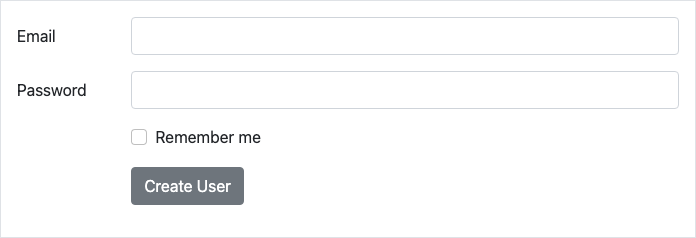
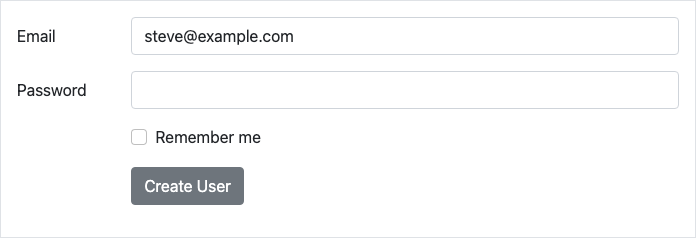
Added email to the standard user + help text in example 2

Changed region(s): [[0.2112, 0.1176, 0.4224, 0.1765]]

diff --git a/demo/app/controllers/bootstrap_controller.rb b/demo/app/controllers/bootstrap_controller.rb
@@ -20,9 +20,9 @@ class BootstrapController < ApplicationController
       Address.new(id: 2, street: "Bar")
     ]
 
-    @user = User.new
+    @user = User.new email: 'steve@example.com'
 
-    @user_with_error = User.new
+    @user_with_error = User.new email: 'steve.example.com'
     @user_with_error.errors.add(:email)
     @user_with_error.errors.add(:misc)
   end

diff --git a/README.md b/README.md
@@ -86,7 +86,7 @@ This generates the following HTML:
 <form accept-charset="UTF-8" action="/users" class="new_user" id="new_user" method="post">
   <div class="mb-3">
     <label class="form-label required" for="user_email">Email</label>
-    <input class="form-control" id="user_email" name="user[email]" type="email">
+    <input class="form-control" id="user_email" name="user[email]" type="email" value="steve@example.com">
   </div>
   <div class="mb-3">
     <label class="form-label" for="user_password">Password</label>
@@ -135,7 +135,7 @@ To get started, just use the `bootstrap_form_with` helper in place of `form_with
 ```erb
 <%= bootstrap_form_with(model: @user, local: true) do |f| %>
   <%= f.email_field :email %>
-  <%= f.password_field :password %>
+  <%= f.password_field :password, help: 'A good password should be at least six characters long' %>
   <%= f.check_box :remember_me %>
   <%= f.submit "Log In" %>
 <% end %>
@@ -286,7 +286,7 @@ This generates:
 <div class="mb-3 row">
   <label class="form-label custom-class col-form-label col-sm-2 required" for="user_email">Email</label>
   <div class="col-sm-10">
-    <input class="form-control" id="user_email" name="user[email]" type="text">
+    <input class="form-control" id="user_email" name="user[email]" type="text" value="steve@example.com">
   </div>
 </div>
 ```
@@ -304,7 +304,7 @@ This generates:
 <div class="mb-3 row">
   <label class="form-label visually-hidden col-form-label col-sm-2 required" for="user_email">Email</label>
   <div class="col-sm-10">
-    <input class="form-control" id="user_email" name="user[email]" placeholder="Email" type="text">
+    <input class="form-control" id="user_email" name="user[email]" placeholder="Email" type="text" value="steve@example.com">
   </div>
 </div>
 ```
@@ -324,7 +324,7 @@ This generates:
 <div class="mb-3 row">
   <label class="form-label col-form-label col-sm-2 required" for="user_email">Email</label>
   <div class="col-sm-10">
-    <input class="custom-class" id="user_email" name="user[email]" type="text">
+    <input class="custom-class" id="user_email" name="user[email]" type="text" value="steve@example.com">
   </div>
 </div>
 ```
@@ -460,7 +460,7 @@ This generates:
   <label class="form-label col-form-label col-sm-2 required" for="user_email">Email</label>
   <div class="col-sm-10">
     <div class="input-group input-group-lg">
-      <input class="form-control" id="user_email" name="user[email]" type="email">
+      <input class="form-control" id="user_email" name="user[email]" type="email" value="steve@example.com">
       <input class="btn btn-primary" data-disable-with="Subscribe" name="commit" type="submit" value="Subscribe">
     </div>
   </div>
@@ -746,7 +746,7 @@ This generates:
 <div class="mb-3 row">
   <label class="form-label col-form-label col-sm-2 required" for="user_email">Email</label>
   <div class="col-sm-10">
-    <input class="form-control-plaintext" id="user_email" name="user[email]" readonly type="text">
+    <input class="form-control-plaintext" id="user_email" name="user[email]" readonly type="text" value="steve@example.com">
   </div>
 </div>
 ```
@@ -954,7 +954,7 @@ append `_without_bootstrap` to the helper:
 This generates:
 
 ```html
-<input id="user_email" name="user[email]" type="text">
+<input id="user_email" name="user[email]" type="text" value="steve@example.com">
 ```
 
 ## Form Styles
@@ -984,7 +984,7 @@ This generates:
 <form accept-charset="UTF-8" action="/users" class="new_user col-auto g-3" id="new_user" method="post">
   <div class="mb-3">
     <label class="form-label visually-hidden mr-sm-2 required" for="user_email">Email</label>
-    <input class="form-control" id="user_email" name="user[email]" type="email">
+    <input class="form-control" id="user_email" name="user[email]" type="email" value="steve@example.com">
   </div>
   <div class="mb-3">
     <label class="form-label visually-hidden mr-sm-2" for="user_password">Password</label>
@@ -1046,7 +1046,7 @@ This generates:
   <div class="mb-3 row">
     <label class="form-label col-form-label col-sm-2 required" for="user_email">Email</label>
     <div class="col-sm-10">
-      <input class="form-control" id="user_email" name="user[email]" type="email">
+      <input class="form-control" id="user_email" name="user[email]" type="email" value="steve@example.com">
     </div>
   </div>
   <div class="mb-3 row">
@@ -1093,7 +1093,7 @@ This generates:
   <div class="mb-3 row">
     <label class="form-label col-form-label col-sm-2 required" for="user_email">Email</label>
     <div class="col-sm-10">
-      <input class="form-control" id="user_email" name="user[email]" type="email">
+      <input class="form-control" id="user_email" name="user[email]" type="email" value="steve@example.com">
     </div>
   </div>
   <div class="mb-3 row">
@@ -1150,7 +1150,7 @@ This generates:
   <div class="mb-3 row">
     <label class="form-label col-form-label col-sm-2 required" for="user_email">Email</label>
     <div class="col-sm-10">
-      <input class="form-control" id="user_email" name="user[email]" type="email">
+      <input class="form-control" id="user_email" name="user[email]" type="email" value="steve@example.com">
     </div>
   </div>
   <div class="mb-3 row">
@@ -1190,7 +1190,7 @@ This generates:
   <div class="mb-3 row">
     <label class="form-label col-form-label col-sm-2 required" for="user_email">Email</label>
     <div class="col-sm-10">
-      <input class="form-control" id="user_email" name="user[email]" type="email">
+      <input class="form-control" id="user_email" name="user[email]" type="email" value="steve@example.com">
     </div>
   </div>
   <div class="mb-3">
@@ -1231,7 +1231,7 @@ This generates:
 <form accept-charset="UTF-8" action="/users" class="new_user" id="new_user" method="post">
   <div class="mb-3">
     <label class="form-label required" for="user_email">Email</label>
-    <input class="form-control" id="user_email" name="user[email]" type="email">
+    <input class="form-control" id="user_email" name="user[email]" type="email" value="steve@example.com">
   </div>
   <div class="mb-3">
     <label class="form-label" for="user_password">Password</label>
@@ -1267,7 +1267,7 @@ This generates:
 ```html
 <form accept-charset="UTF-8" action="/users" class="new_user" id="new_user" method="post">
   <div class="mb-3 form-floating">
-    <input class="form-control" id="user_email" name="user[email]" placeholder="Email" type="email">
+    <input class="form-control" id="user_email" name="user[email]" placeholder="Email" type="email" value="steve@example.com">
     <label class="form-label required" for="user_email">Email</label>
   </div>
   <div class="mb-3 form-floating">
